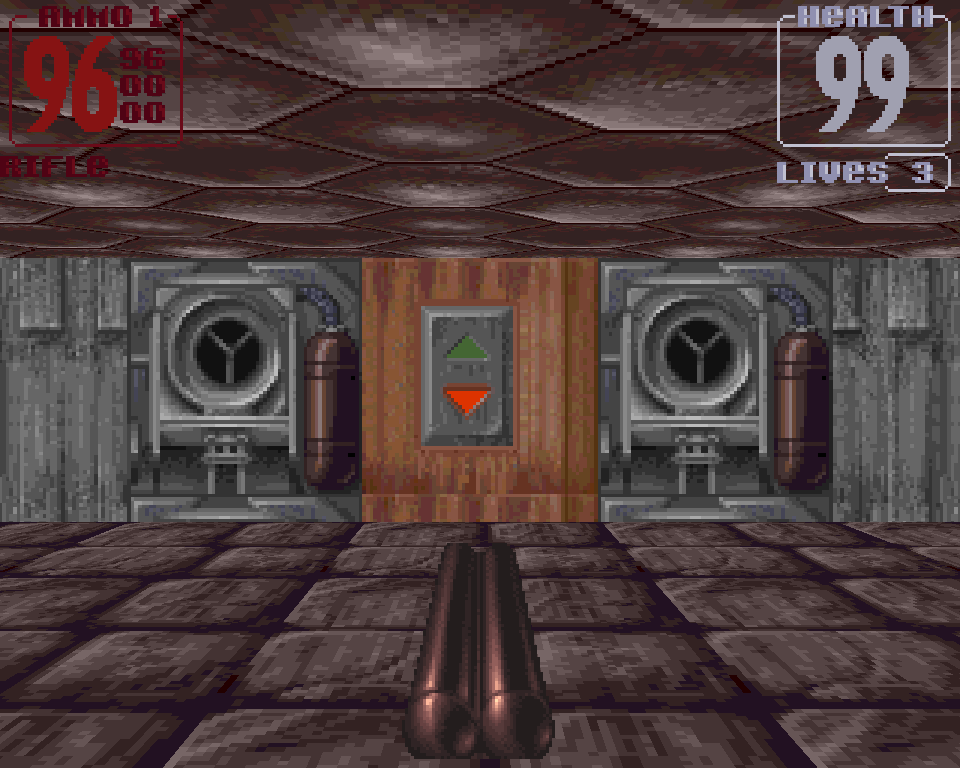
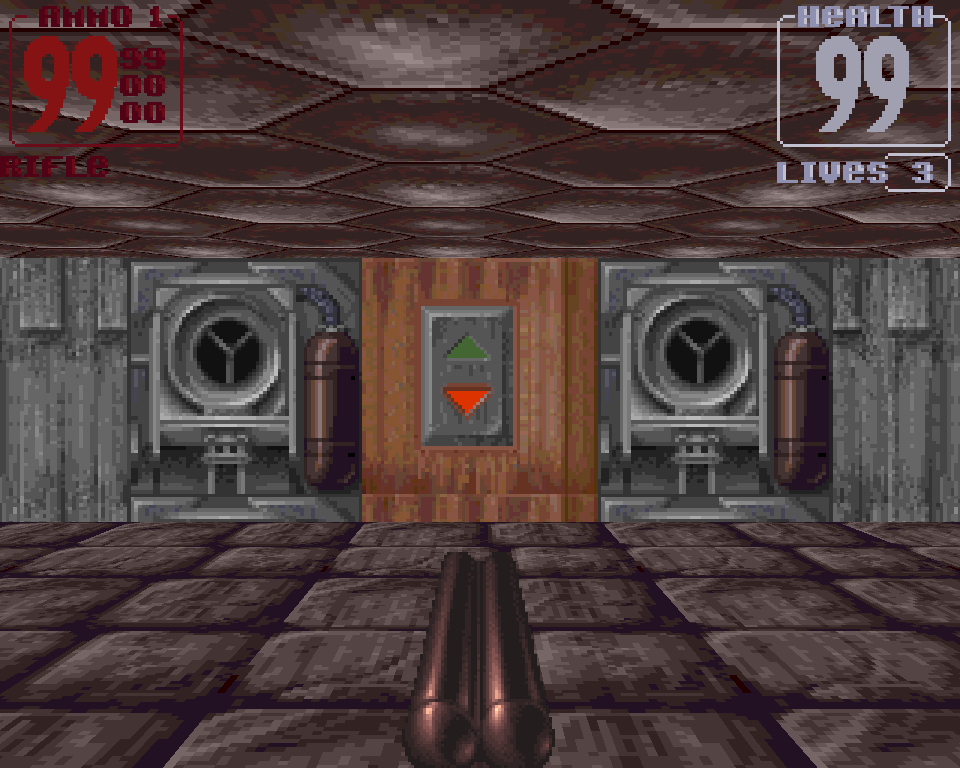
Arme posée en bas de l'écran (VSTART $D3) et éclair de bouche (banque de couleurs 112-127 au-dessus de la ligne de L0134e4)

Changed region(s): [[0.4062, 0.8438, 0.5938, 1.0], [0.0625, 0.0312, 0.125, 0.1875], [0.4688, 0.6875, 0.5, 0.75]]

diff --git a/src/main/java/fears/engine/Hud.java b/src/main/java/fears/engine/Hud.java
@@ -51,6 +51,18 @@ public final class Hud {
     private final byte[] health = new byte[SPRITE_BYTES];
     private final int[] colors = new int[16];
     private final int[][] weaponFrames;
+    /** Index de couleur (0 à 15) des 17 images de l'arme : deux paires de sprites attachées. */
+    private final int[][] weaponIndices;
+    /**
+     * Éclair de bouche ({@code L0134e4}) : BPLCON4 vaut $77 sur les rangées 0 à n de la vue,
+     * $66 au-delà. Au-dessus de la ligne 2(n+1), les sprites prennent donc leurs couleurs dans
+     * la banque 112–127 (oranges et jaunes) au lieu de la palette de l'arme. n vient de
+     * {@code L013530} (pistolet : 91, 92, 93, 92) ou {@code L013538} (rolling : 99), selon
+     * l'image de tir ; les autres armes gardent la dernière valeur écrite.
+     */
+    static final int PISTOL_FLASH = 0x13530;
+    static final int ROLLING_FLASH = 0x13538;
+    private int flashRows = 91;
     private final int[] image = new int[WIDTH * HEIGHT];
     /** Éclair rouge quand le joueur est touché : 16 crans, un toutes les 3 VBL (L013b34). */
     private int flash;
@@ -66,9 +78,13 @@ public final class Hud {
     /**
      * @param weaponFrames les 17 images de l'arme, 128×87 en 0xAARRGGBB (alpha 0 = transparent)
      */
-    public Hud(LinkedImage engine, int[][] weaponFrames) {
+    /**
+     * @param weaponIndices les mêmes images en index de couleur 0..15 (0 = transparent)
+     */
+    public Hud(LinkedImage engine, int[][] weaponFrames, int[][] weaponIndices) {
         this.engine = engine;
         this.weaponFrames = weaponFrames;
+        this.weaponIndices = weaponIndices;
         copy(SPRITE_AMMO, ammo);
         copy(SPRITE_FRAME, frameSprite);
         copy(SPRITE_HEALTH, health);
@@ -229,13 +245,21 @@ public final class Hud {
     }
 
     private void drawWeapon(Weapons weapons) {
+        int table = weapons.weapon() == Weapons.PISTOL ? PISTOL_FLASH
+                : weapons.weapon() == Weapons.ROLLING ? ROLLING_FLASH : 0;
+        if (table != 0) {
+            flashRows = engine.u16(table + 2 * Math.min(3, weapons.fireFrame()));
+        }
+        int bankLimit = 2 * (flashRows + 1);
         int[] frame = weaponFrames[weapons.image()];
+        int[] indices = weaponIndices[weapons.image()];
         int top = weapons.vstart() - 0x2A;
         for (int y = 0; y < 87; y++) {
+            boolean hudBank = top + y < bankLimit;
             for (int x = 0; x < 128; x++) {
                 int argb = frame[y * 128 + x];
                 if ((argb >>> 24) != 0) {
-                    put(96 + x, top + y, argb & 0xFFFFFF);
+                    put(96 + x, top + y, hudBank ? colors[indices[y * 128 + x]] : argb & 0xFFFFFF);
                 }
             }
         }

diff --git a/src/test/java/fears/engine/HudTest.java b/src/test/java/fears/engine/HudTest.java
@@ -1,0 +1,54 @@
+package fears.engine;
+
+import fears.menu.LinkedImage;
+import org.junit.jupiter.api.Test;
+
+import javax.imageio.ImageIO;
+import java.awt.image.BufferedImage;
+import java.io.IOException;
+import java.nio.file.Files;
+import java.nio.file.Path;
+
+import static org.junit.jupiter.api.Assertions.assertEquals;
+import static org.junit.jupiter.api.Assumptions.assumeTrue;
+
+/** HUD et arme en main ; images dans {@code build/hud-test/}. */
+class HudTest {
+
+    @Test
+    void pistolSitsOnTheBottomAndItsMuzzleUsesTheHudBank() throws IOException {
+        Path resources = Path.of(System.getProperty("user.home"), ".fears", "ressources");
+        assumeTrue(Files.isDirectory(resources.resolve("engine")), "ressources extraites absentes");
+        int[][] frames = new int[17][];
+        int[][] indices = new int[17][];
+        for (int i = 0; i < 17; i++) {
+            BufferedImage image = ImageIO.read(resources.resolve("engine/armes").resolve(String.format("arme_%02d.png", i)).toFile());
+            frames[i] = image.getRGB(0, 0, 128, 87, null, 0, 128);
+            indices[i] = image.getRaster().getPixels(0, 0, 128, 87, (int[]) null);
+        }
+        Hud hud = new Hud(LinkedImage.load(resources.resolve("raw/d1_0282da.bin")), frames, indices);
+        Stats stats = new Stats();
+        Weapons weapons = new Weapons(stats);
+        hud.update(stats, weapons);
+        // La dernière ligne de l'arme est la dernière de l'écran.
+        assertEquals(Weapons.RAISED + 87 - 0x2A, Hud.HEIGHT);
+        write(hud, "pistolet-repos");
+        weapons.tick(true);
+        hud.update(stats, weapons);
+        write(hud, "pistolet-tir");
+    }
+
+    private static void write(Hud hud, String name) throws IOException {
+        Path dir = Files.createDirectories(Path.of("build", "hud-test"));
+        BufferedImage image = new BufferedImage(Hud.WIDTH, Hud.HEIGHT * 2, BufferedImage.TYPE_INT_RGB);
+        for (int y = 0; y < Hud.HEIGHT; y++) {
+            for (int x = 0; x < Hud.WIDTH; x++) {
+                int c = hud.image()[y * Hud.WIDTH + x];
+                int rgb = (c >>> 24) == 0 ? 0x203040 : c & 0xFFFFFF;
+                image.setRGB(x, 2 * y, rgb);
+                image.setRGB(x, 2 * y + 1, rgb);
+            }
+        }
+        ImageIO.write(image, "png", dir.resolve(name + ".png").toFile());
+    }
+}

diff --git a/src/main/java/fears/engine/Weapons.java b/src/main/java/fears/engine/Weapons.java
@@ -6,7 +6,7 @@ package fears.engine;
  * <p>Six armes, touches 1 à 6 : poing, pistolet, rolling, lance-roquettes, plasma,
  * tronçonneuse. L'image affichée est l'une des 17 images 128×87 ; au tir, les images de tir
  * défilent, ou bien l'arme recule (poing, roquettes). Changer d'arme l'abaisse
- * (VSTART $D3 → $121 par pas de 5), change l'image, puis la relève ($121 → $D0 par pas de 4).
+ * (VSTART $D3 → $121 par pas de 5), change l'image, puis la relève par pas de 4.
  *
  * <p>Sans aliens, les tirs n'ont pas encore de cible ; ils consomment, sonnent et s'animent
  * comme dans le jeu.
@@ -37,8 +37,11 @@ public final class Weapons {
     static final int[] FIST_RECOIL = {3, 2, 2, 1, 1, 1, 0, -3, -7};
     static final int[] ROCKET_RECOIL = {5, 3, 0, -1, -1, -1, -1, -2, -2};
 
-    /** Position verticale de l'arme : en place, et abaissée. */
-    public static final int RAISED = 0xD0;
+    /**
+     * Position verticale de l'arme en place : POS $D370 / $D390 dans l'en-tête de ses sprites,
+     * soit VSTART $D3 — ses 87 lignes finissent alors exactement en bas de la fenêtre ($12A).
+     */
+    public static final int RAISED = 0xD3;
     static final int LOWER_FROM = 0xD3;
     public static final int LOWERED = 0x121;
 
@@ -96,6 +99,11 @@ public final class Weapons {
             case Stats.AMMO_3 -> 3;
             default -> 0;
         };
+    }
+
+    /** Image d'animation de tir en cours (0 = repos) : indexe la table de l'éclair de bouche. */
+    public int fireFrame() {
+        return frame;
     }
 
     /** Image à afficher (0 à 16). */

diff --git a/src/main/java/fears/game/GameState.java b/src/main/java/fears/game/GameState.java
@@ -158,11 +158,13 @@ final class GameState extends BaseAppState implements RawInputListener {
         doors = new Doors(world, player, !entry.paletteB());
         doors.setListener(sounds);
         int[][] frames = new int[17][];
+        int[][] indices = new int[17][];
         for (int i = 0; i < frames.length; i++) {
-            frames[i] = Textures.argb(resources.resolve("engine").resolve("armes")
-                    .resolve(String.format("arme_%02d.png", i)));
+            Path file = resources.resolve("engine").resolve("armes").resolve(String.format("arme_%02d.png", i));
+            frames[i] = Textures.argb(file);
+            indices[i] = Textures.indices(file);
         }
-        hud = new Hud(LinkedImage.load(resources.resolve("raw").resolve("d1_0282da.bin")), frames);
+        hud = new Hud(LinkedImage.load(resources.resolve("raw").resolve("d1_0282da.bin")), frames, indices);
         hud.update(stats, weapons);
         hudView = new ScreenView(Hud.WIDTH, Hud.HEIGHT, 2f, true);
         hudView.upload(hud.image());

diff --git a/src/main/java/fears/game/Textures.java b/src/main/java/fears/game/Textures.java
@@ -27,6 +27,15 @@ final class Textures {
         return source.getRGB(0, 0, source.getWidth(), source.getHeight(), null, 0, source.getWidth());
     }
 
+    /** Les index de couleur d'un PNG indexé, ligne par ligne depuis le haut. */
+    static int[] indices(Path file) throws IOException {
+        BufferedImage source = ImageIO.read(file.toFile());
+        if (source == null || !(source.getColorModel() instanceof java.awt.image.IndexColorModel)) {
+            throw new IOException("image indexée attendue : " + file);
+        }
+        return source.getRaster().getPixels(0, 0, source.getWidth(), source.getHeight(), (int[]) null);
+    }
+
     /**
      * Charge un PNG. OpenGL compte les lignes de bas en haut : la ligne 0 de l'image se
      * retrouve en v = 1.
